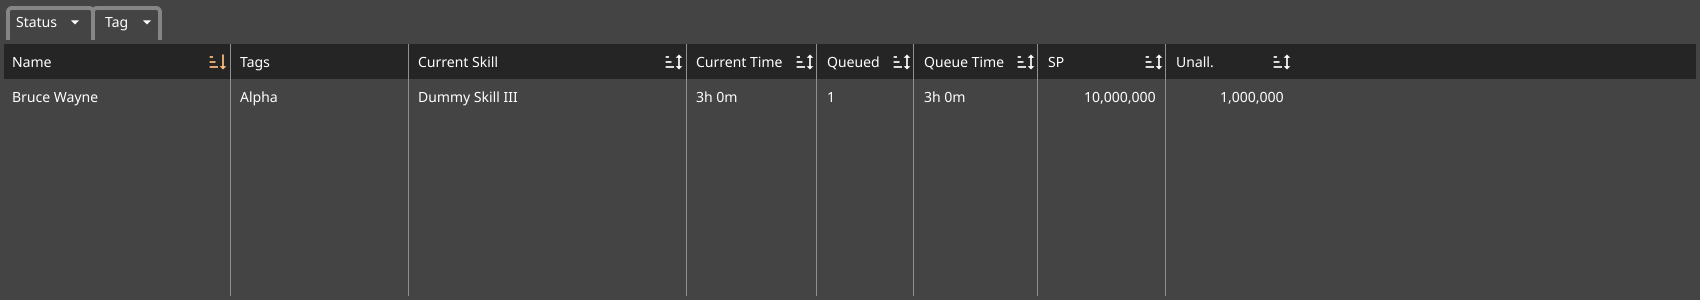
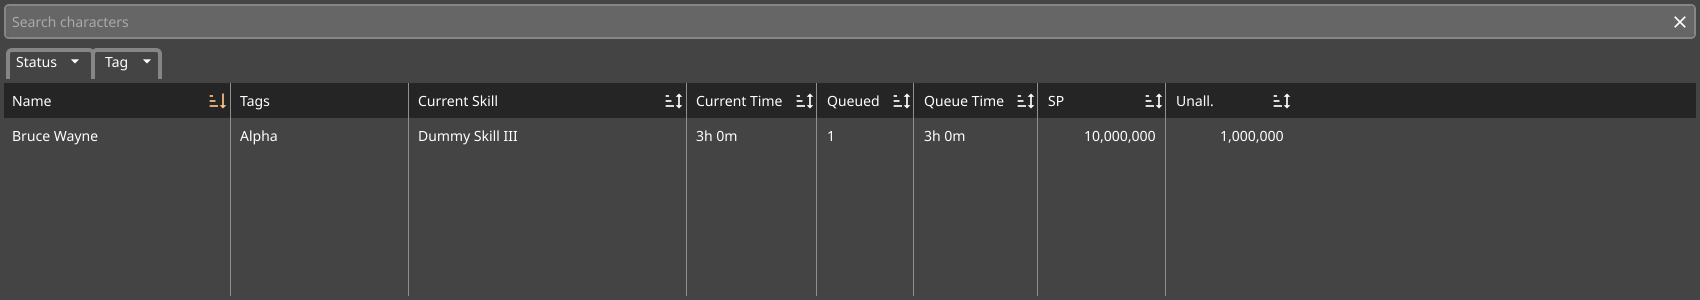
feat: add search bar on training screen (#300)

diff --git a/internal/app/ui/training.go b/internal/app/ui/training.go
@@ -37,6 +37,7 @@ type trainingRow struct {
 	characterID                int32
 	characterName              string
 	isActive                   bool
+	searchTarget               string
 	skill                      *app.CharacterSkillqueueItem
 	skillDisplay               []widget.RichTextSegment
 	skillFinishDate            optional.Optional[time.Time]
@@ -94,14 +95,15 @@ func (r trainingRow) remainingTimeString(d optional.Optional[time.Duration]) str
 type training struct {
 	widget.BaseWidget
 
-	main         fyne.CanvasObject
+	bottom       *widget.Label
 	columnSorter *iwidget.ColumnSorter
+	main         fyne.CanvasObject
 	rows         []trainingRow
 	rowsFiltered []trainingRow
+	search       *widget.Entry
 	selectStatus *kxwidget.FilterChipSelect
 	selectTag    *kxwidget.FilterChipSelect
 	sortButton   *iwidget.SortButton
-	bottom       *widget.Label
 	u            *baseUI
 }
 
@@ -149,13 +151,22 @@ func newTraining(u *baseUI) *training {
 		Width: 100,
 	}})
 	a := &training{
+		bottom:       widget.NewLabel(""),
 		columnSorter: headers.NewColumnSorter(trainingColName, iwidget.SortAsc),
 		rows:         make([]trainingRow, 0),
 		rowsFiltered: make([]trainingRow, 0),
-		bottom:       widget.NewLabel(""),
+		search:       widget.NewEntry(),
 		u:            u,
 	}
 	a.ExtendBaseWidget(a)
+	a.search.ActionItem = kxwidget.NewIconButton(theme.CancelIcon(), func() {
+		a.search.SetText("")
+		a.filterRows(-1)
+	})
+	a.search.OnChanged = func(s string) {
+		a.filterRows(-1)
+	}
+	a.search.PlaceHolder = "Search characters"
 	makeCell := func(col int, r trainingRow) []widget.RichTextSegment {
 		switch col {
 		case trainingColName:
@@ -238,7 +249,10 @@ func (a *training) CreateRenderer() fyne.WidgetRenderer {
 		filter.Add(a.sortButton)
 	}
 	c := container.NewBorder(
-		container.NewHScroll(filter),
+		container.NewVBox(
+			a.search,
+			container.NewHScroll(filter),
+		),
 		nil,
 		nil,
 		nil,
@@ -353,6 +367,22 @@ func (a *training) filterRows(sortCol int) {
 			return r.tags.Contains(x)
 		})
 	}
+	// search filter
+	if search := strings.ToLower(a.search.Text); search != "" {
+		rows2 := make([]trainingRow, 0)
+		for _, r := range rows {
+			var matches bool
+			if search == "" {
+				matches = true
+			} else {
+				matches = strings.Contains(r.searchTarget, search)
+			}
+			if matches {
+				rows2 = append(rows2, r)
+			}
+		}
+		rows = rows2
+	}
 	// sort
 	a.columnSorter.Sort(sortCol, func(sortCol int, dir iwidget.SortDir) {
 		slices.SortFunc(rows, func(a, b trainingRow) int {
@@ -436,6 +466,7 @@ func (*training) fetchRows(s services) ([]trainingRow, error) {
 		r := trainingRow{
 			characterID:   c.ID,
 			characterName: c.EveCharacter.Name,
+			searchTarget:  strings.ToLower(c.EveCharacter.Name),
 			totalSP:       c.TotalSP,
 			totalSPDisplay: c.TotalSP.StringFunc("?", func(v int) string {
 				return humanize.Comma(int64(v))

diff --git a/internal/app/ui/assets.go b/internal/app/ui/assets.go
@@ -113,10 +113,10 @@ type assets struct {
 
 	body           fyne.CanvasObject
 	columnSorter   *iwidget.ColumnSorter
-	entry          *widget.Entry
 	found          *widget.Label
 	rows           []assetRow
 	rowsFiltered   []assetRow
+	search         *widget.Entry
 	selectCategory *kxwidget.FilterChipSelect
 	selectGroup    *kxwidget.FilterChipSelect
 	selectLocation *kxwidget.FilterChipSelect
@@ -166,20 +166,21 @@ func newAssets(u *baseUI) *assets {
 	}})
 	a := &assets{
 		columnSorter: headers.NewColumnSorter(assetsColItem, iwidget.SortAsc),
-		entry:        widget.NewEntry(),
+		search:       widget.NewEntry(),
 		found:        widget.NewLabel(""),
 		rowsFiltered: make([]assetRow, 0),
 		total:        makeTopLabel(),
 		u:            u,
 	}
 	a.ExtendBaseWidget(a)
-	a.entry.ActionItem = kxwidget.NewIconButton(theme.CancelIcon(), func() {
-		a.resetSearch()
+	a.search.ActionItem = kxwidget.NewIconButton(theme.CancelIcon(), func() {
+		a.search.SetText("")
+		a.filterRows(-1)
 	})
-	a.entry.OnChanged = func(s string) {
+	a.search.OnChanged = func(s string) {
 		a.filterRows(-1)
 	}
-	a.entry.PlaceHolder = "Search items"
+	a.search.PlaceHolder = "Search items"
 	a.found.Hide()
 
 	if !a.u.isDesktop {
@@ -272,7 +273,7 @@ func (a *assets) CreateRenderer() fyne.WidgetRenderer {
 	}
 	topBox := container.NewVBox(
 		container.NewBorder(nil, nil, nil, a.found, a.total),
-		a.entry,
+		a.search,
 		container.NewHScroll(filters),
 	)
 	c := container.NewBorder(topBox, nil, nil, nil, a.body)
@@ -327,7 +328,7 @@ func (a *assets) makeDataList() *iwidget.StripedList {
 }
 
 func (a *assets) focus() {
-	a.u.MainWindow().Canvas().Focus(a.entry)
+	a.u.MainWindow().Canvas().Focus(a.search)
 }
 
 func (a *assets) filterRows(sortCol int) {
@@ -375,7 +376,7 @@ func (a *assets) filterRows(sortCol int) {
 		})
 	}
 	// search filter
-	if search := strings.ToLower(a.entry.Text); search != "" {
+	if search := strings.ToLower(a.search.Text); search != "" {
 		rows2 := make([]assetRow, 0)
 		for _, r := range rows {
 			var matches bool
@@ -441,11 +442,6 @@ func (a *assets) filterRows(sortCol int) {
 	case *widget.Table:
 		x.ScrollToTop()
 	}
-}
-
-func (a *assets) resetSearch() {
-	a.entry.SetText("")
-	a.filterRows(-1)
 }
 
 func (a *assets) update() {
